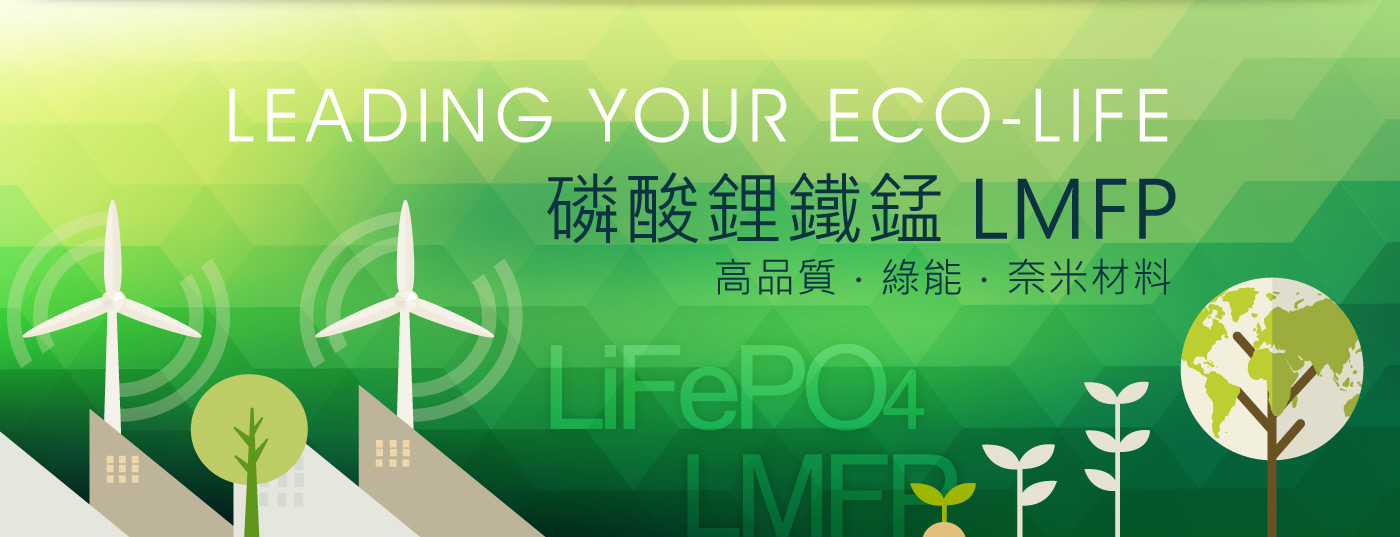
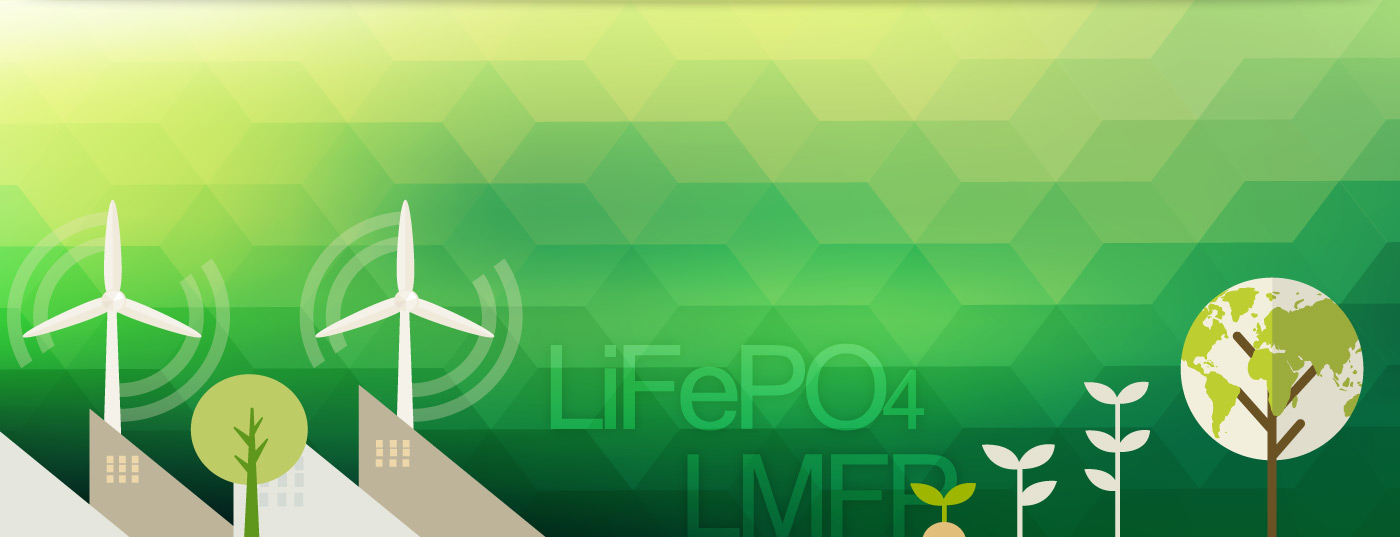
首頁banner 文字動畫

diff --git a/Work.WebProj/Content/css/index.css b/Work.WebProj/Content/css/index.css
@@ -296,7 +296,7 @@ h1, h2, h3, h4, h5, h6 {
   font-family: "Microsoft Jhenghei", \5FAE\8EDF\6B63\9ED1\9AD4, Verdana, Helvetica, Arial, sans-serif;
   font-weight: 500;
   line-height: 1.1;
-  color: #44b048;
+  color: #114657;
   margin-bottom: 0.625em; }
   h1 small, h2 small, h3 small, h4 small, h5 small, h6 small {
     font-weight: normal; }
@@ -311,7 +311,7 @@ h3 {
   font-size: 2.3125em; }
 
 h4 {
-  font-size: 1.125em; }
+  font-size: 2.1875em; }
 
 h5 {
   font-size: 1em; }
@@ -722,6 +722,9 @@ html, body {
   border-bottom: 1px solid #12556D;
   padding-bottom: 15px; }
 
+.font-sp {
+  font-family: "Open Sans", sans-serif; }
+
 .text-white, .bg-primary, .bg-grays, .bg-success, .bg-info, .bg-warn, .bg-error, .bg-oranges {
   color: #fff; }
 
@@ -790,7 +793,7 @@ html, body {
   text-align: center;
   overflow: hidden;
   width: 100%; }
-  .swiper-slide img {
+  .swiper-slide .bg {
     width: 100%; }
 
 .swiper-button-prev,
@@ -916,6 +919,115 @@ html, body {
   height: 42px; }
   .goTop:hover, .goTop:active {
     opacity: 1; }
+
+#banner h2, #banner h3, #banner h4 {
+  position: absolute;
+  left: 50%; }
+#banner .swiper-slide:nth-of-type(1) h2 {
+  margin-left: -2em;
+  top: 2.34375em; }
+  @media (max-width: 74.9375em) {
+    #banner .swiper-slide:nth-of-type(1) h2 {
+      font-size: 3.125em; } }
+  @media (max-width: 48em) {
+    #banner .swiper-slide:nth-of-type(1) h2 {
+      font-size: 2.3125em; } }
+  @media (max-width: 30em) {
+    #banner .swiper-slide:nth-of-type(1) h2 {
+      font-size: 1.5625em; } }
+  @media (max-width: 20em) {
+    #banner .swiper-slide:nth-of-type(1) h2 {
+      font-size: 1.125em; } }
+#banner .swiper-slide:nth-of-type(1) h3 {
+  font-size: 4em;
+  letter-spacing: 4px;
+  left: 0;
+  right: 0;
+  top: 1.25em; }
+  @media (max-width: 74.9375em) {
+    #banner .swiper-slide:nth-of-type(1) h3 {
+      font-size: 2.8125em; } }
+  @media (max-width: 48em) {
+    #banner .swiper-slide:nth-of-type(1) h3 {
+      font-size: 2.1875em; } }
+  @media (max-width: 30em) {
+    #banner .swiper-slide:nth-of-type(1) h3 {
+      font-size: 1.25em; } }
+  @media (max-width: 20em) {
+    #banner .swiper-slide:nth-of-type(1) h3 {
+      font-size: 1em; } }
+#banner .swiper-slide:nth-of-type(1) h4 {
+  margin-left: 0.5em;
+  top: 7em; }
+  @media (max-width: 74.9375em) {
+    #banner .swiper-slide:nth-of-type(1) h4 {
+      font-size: 1.5625em; } }
+  @media (max-width: 48em) {
+    #banner .swiper-slide:nth-of-type(1) h4 {
+      font-size: 1.125em; } }
+  @media (max-width: 30em) {
+    #banner .swiper-slide:nth-of-type(1) h4 {
+      font-size: 0.8125em; } }
+  @media (max-width: 20em) {
+    #banner .swiper-slide:nth-of-type(1) h4 {
+      display: none; } }
+#banner .swiper-slide:nth-of-type(2) h2 {
+  top: 0.9375em;
+  margin-left: -0.3125em;
+  text-shadow: 4px 4px 0 rgba(0, 0, 0, 0.2); }
+  @media (max-width: 74.9375em) {
+    #banner .swiper-slide:nth-of-type(2) h2 {
+      font-size: 2.8125em; } }
+  @media (max-width: 48em) {
+    #banner .swiper-slide:nth-of-type(2) h2 {
+      font-size: 2.1875em; } }
+  @media (max-width: 30em) {
+    #banner .swiper-slide:nth-of-type(2) h2 {
+      font-size: 1.25em; } }
+  @media (max-width: 20em) {
+    #banner .swiper-slide:nth-of-type(2) h2 {
+      font-size: 1em; } }
+#banner .swiper-slide:nth-of-type(2) h3 {
+  margin-left: 2.8125em; }
+  #banner .swiper-slide:nth-of-type(2) h3.t1 {
+    top: 4.375em; }
+  #banner .swiper-slide:nth-of-type(2) h3.t2 {
+    top: 5.9375em; }
+  #banner .swiper-slide:nth-of-type(2) h3.t3 {
+    top: 7.5em; }
+  @media (max-width: 74.9375em) {
+    #banner .swiper-slide:nth-of-type(2) h3 {
+      font-size: 1.75em; } }
+  @media (max-width: 48em) {
+    #banner .swiper-slide:nth-of-type(2) h3 {
+      font-size: 1.3125em; } }
+  @media (max-width: 30em) {
+    #banner .swiper-slide:nth-of-type(2) h3 {
+      font-size: 0.875em; } }
+  @media (max-width: 20em) {
+    #banner .swiper-slide:nth-of-type(2) h3 {
+      font-size: 0.6875em; } }
+#banner .swiper-slide:nth-of-type(3) h2 {
+  font-size: 3.4375em;
+  letter-spacing: 3px; }
+  #banner .swiper-slide:nth-of-type(3) h2.t1 {
+    left: 10.2%;
+    top: 1.1875em; }
+  #banner .swiper-slide:nth-of-type(3) h2.t2 {
+    left: 5%;
+    top: 2.375em; }
+  @media (max-width: 74.9375em) {
+    #banner .swiper-slide:nth-of-type(3) h2 {
+      font-size: 2.625em; } }
+  @media (max-width: 48em) {
+    #banner .swiper-slide:nth-of-type(3) h2 {
+      font-size: 1.875em; } }
+  @media (max-width: 30em) {
+    #banner .swiper-slide:nth-of-type(3) h2 {
+      font-size: 1.1875em; } }
+  @media (max-width: 20em) {
+    #banner .swiper-slide:nth-of-type(3) h2 {
+      font-size: 0.625em; } }
 
 #main {
   padding: 13px;

diff --git a/Work.WebProj/Content/sass/index.scss b/Work.WebProj/Content/sass/index.scss
@@ -5,13 +5,16 @@
 $img-path2:               '../images/index';
 
 $content-spacing:         0;
+$heading-color:           darken(#1E7997, 15%);
 $font-size-h2:            70px;
 $font-size-h3:            37px;
+$font-size-h4:            35px;
 
 
 // import
 // ------------------------------------------------------------
 @import "_client/settings";  // 本次專案設定值，可覆蓋掉下面的變數
+
 
 @import "helper/function";
 @import "helper/var";
@@ -27,6 +30,89 @@ $font-size-h3:            37px;
 
 // layout
 // ----------------------------------------------------------------------
+
+#banner {
+    h2, h3, h4 {
+        @include absolute(left 50%);
+    }
+    .swiper-slide {
+        &:nth-of-type(1) {
+            h2 {
+                margin-left: -(em(32));
+                top: em(37.5);
+
+                @include mq-max(break(wide,-1)) { font-size: em(50); }
+                @include mq-max(tablet) { font-size: em(37); }
+                @include mq-max(phone) { font-size: em(25); }
+                @include mq-max(mobile) { font-size: em(18); }
+            }
+            h3 {
+                font-size: em(64px);
+                letter-spacing: 4px;
+                left: 0; right: 0;
+                top: em(20);
+
+                @include mq-max(break(wide,-1)) { font-size: em(45px); }
+                @include mq-max(tablet) { font-size: em(35); }
+                @include mq-max(phone) { font-size: em(20); }
+                @include mq-max(mobile) { font-size: em(16); }
+            }
+            h4 {
+                margin-left: em(8);
+                top: em(112);
+
+                @include mq-max(break(wide,-1)) { font-size: em(25px); }
+                @include mq-max(tablet) { font-size: em(18); }
+                @include mq-max(phone) { font-size: em(13); }
+                @include mq-max(mobile) { display: none; }
+            }
+        }
+        &:nth-of-type(2) {
+            h2 {
+                top: em(15);
+                margin-left: -(em(5));
+                text-shadow: 4px 4px 0 rgba(#000, .2);
+
+                @include mq-max(break(wide,-1)) { font-size: em(45px); }
+                @include mq-max(tablet) { font-size: em(35); }
+                @include mq-max(phone) { font-size: em(20); }
+                @include mq-max(mobile) { font-size: em(16); }
+            }
+            h3 {
+                margin-left: em(45);
+                &.t1 { top: em(70); }
+                &.t2 { top: em(95); }
+                &.t3 { top: em(120); }
+
+                @include mq-max(break(wide,-1)) { font-size: em(28); }
+                @include mq-max(tablet) { font-size: em(21); }
+                @include mq-max(phone) { font-size: em(14); }
+                @include mq-max(mobile) { font-size: em(11); }
+            }
+        }
+        &:nth-of-type(3) {
+            h2 {
+                font-size: em(55px);
+                letter-spacing: 3px;
+
+                &.t1 {
+                    left: 10.2%;
+                    top: em(19px);
+                }
+                &.t2 {
+                    left: 5%;
+                    top: em(38px);
+                }
+
+                @include mq-max(break(wide,-1)) { font-size: em(42px); }
+                @include mq-max(tablet) { font-size: em(30); }
+                @include mq-max(phone) { font-size: em(19); }
+                @include mq-max(mobile) { font-size: em(10); }
+            }
+        }
+    }
+}
+
 
 // == main
 #main {

diff --git a/Work.WebProj/app_modules/file1.js b/Work.WebProj/app_modules/file1.js
@@ -1,4 +1,5 @@
-"use strict";
+//declare function require(name: string);
+//var sampleModule = require('../modulename/file.jsx');
 var __extends = (this && this.__extends) || function (d, b) {
     for (var p in b) if (b.hasOwnProperty(p)) d[p] = b[p];
     function __() { this.constructor = d; }
@@ -12,7 +13,7 @@ var Tips = (function (_super) {
     }
     Tips.prototype.render = function () {
         var ABC = JCIN.ContextComponent;
-        return React.createElement("div", null, React.createElement(ABC, {id: 1}));
+        return React.createElement("div", null, React.createElement(ABC, {"id": 1}));
     };
     return Tips;
-}(React.Component));
+})(React.Component);

diff --git a/Work.WebProj/Content/sass/base/_basic.scss b/Work.WebProj/Content/sass/base/_basic.scss
@@ -58,17 +58,6 @@ img {
     // &.center  { margin-left: auto; margin-right: auto; }
 }
 
-// @font-face {
-//     font-family: 'NeutraText';
-//     src: url('../font/Neutraface2Text-Book.eot'); // IE9
-//     src: url('../font/Neutraface2Text-Book.eot?#iefix') format('embedded-opentype'), // IE6-IE8
-//          local('Neutraface2Text-Book'),
-//          url('../font/Neutraface2Text-Book.otf') format("opentype");
-// }
-
-// .font-sp { font-family: $font-sp; }
-
-
 
 // Headings
 // -----------------------------------------------

diff --git a/Work.WebProj/Content/css/page.css b/Work.WebProj/Content/css/page.css
@@ -866,6 +866,9 @@ html, body {
   border-bottom: 1px solid #12556D;
   padding-bottom: 15px; }
 
+.font-sp {
+  font-family: "Open Sans", sans-serif; }
+
 .text-white, .bg-primary, .bg-grays, .bg-success, .bg-info, .bg-warn, .bg-error, .bg-oranges {
   color: #fff; }
 
@@ -934,7 +937,7 @@ html, body {
   text-align: center;
   overflow: hidden;
   width: 100%; }
-  .swiper-slide img {
+  .swiper-slide .bg {
     width: 100%; }
 
 .swiper-button-prev,

diff --git a/Work.WebProj/app_modules/file2.js b/Work.WebProj/app_modules/file2.js
@@ -1,3 +1,4 @@
+/// <reference path="file1.tsx" />
 var __extends = (this && this.__extends) || function (d, b) {
     for (var p in b) if (b.hasOwnProperty(p)) d[p] = b[p];
     function __() { this.constructor = d; }
@@ -12,4 +13,4 @@ var Tips2 = (function (_super) {
         return React.createElement("div", null);
     };
     return Tips2;
-}(React.Component));
+})(React.Component);

diff --git a/Work.WebProj/Content/sass/_client/_settings.scss b/Work.WebProj/Content/sass/_client/_settings.scss
@@ -31,7 +31,7 @@ $state-type: (
 
 // == basic
 // ----------------------------------------------------------------------
-$heading-color:         lighten($brand-primary, 10%);
+$heading-color:         lighten($brand-primary, 10%) !default;
 $font-sp:               'Open Sans', sans-serif;
 
 

diff --git a/Work.WebProj/Content/sass/_client/module/_slider.scss b/Work.WebProj/Content/sass/_client/module/_slider.scss
@@ -20,7 +20,7 @@ $swiper-button:        true !default;
     width: 100%;
     // height: 100%;
 
-    img {
+    .bg {
         width: 100%;
         // max-width: none;
         // min-height: 100%;

diff --git a/Work.WebProj/Content/sass/_client/module/_classes.scss b/Work.WebProj/Content/sass/_client/module/_classes.scss
@@ -36,6 +36,7 @@
     padding-bottom: $gutter;
 }
 
+.font-sp { font-family: $font-sp; }
 
 // 情境 helper/var/ $states: true 時才會輸出
 @if $states {
